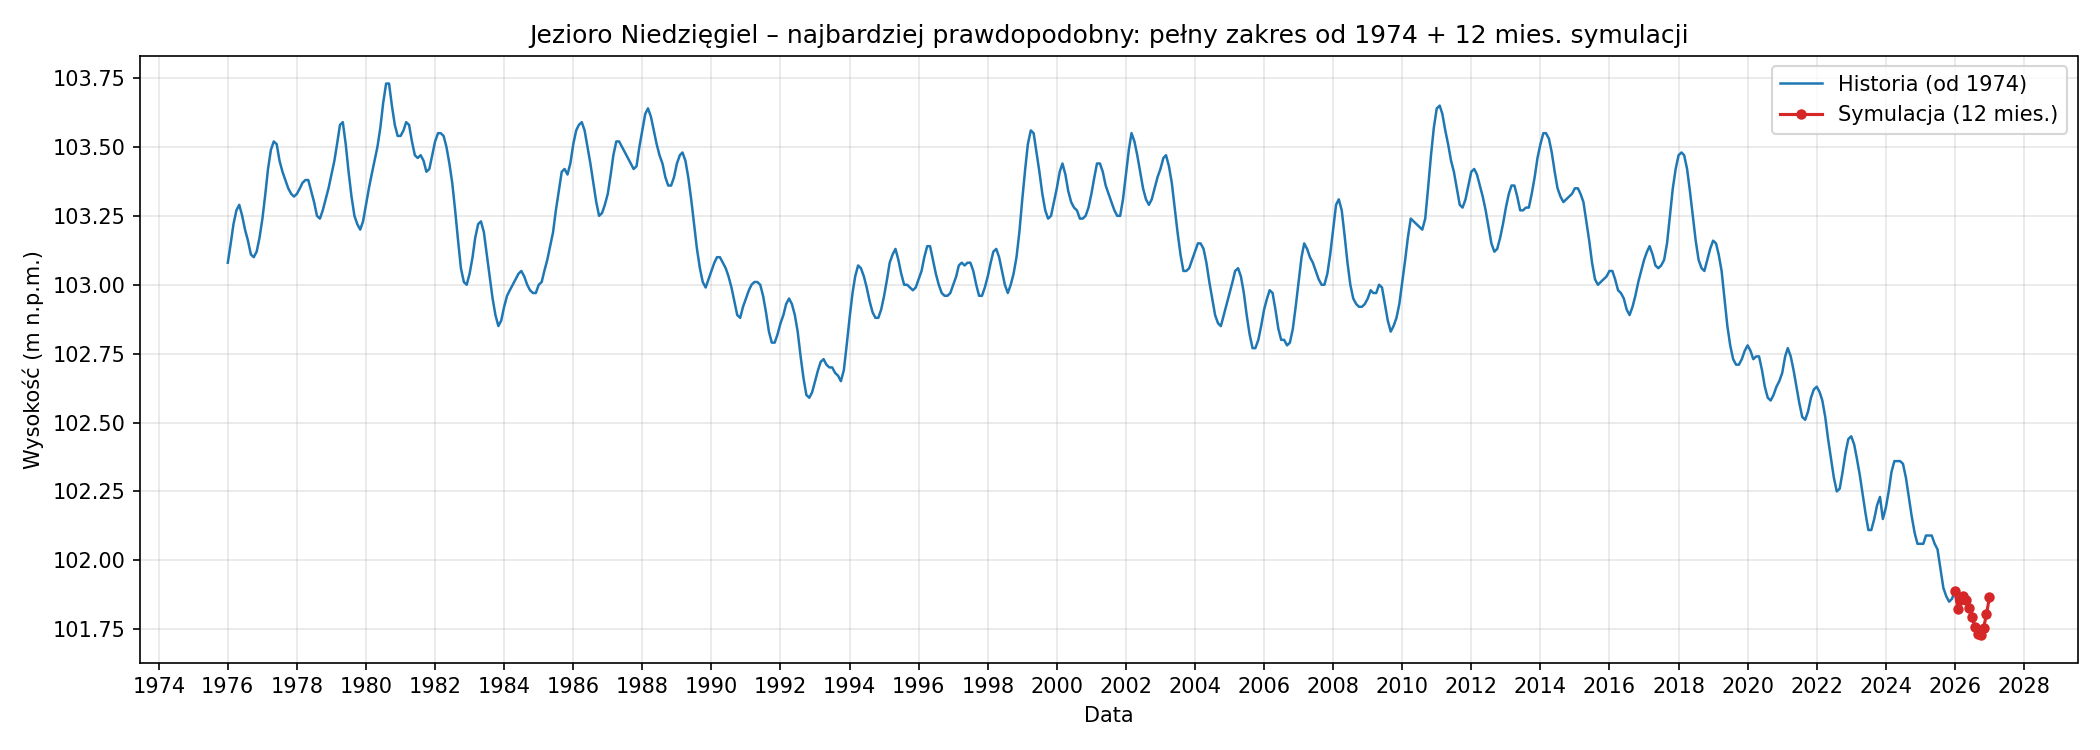
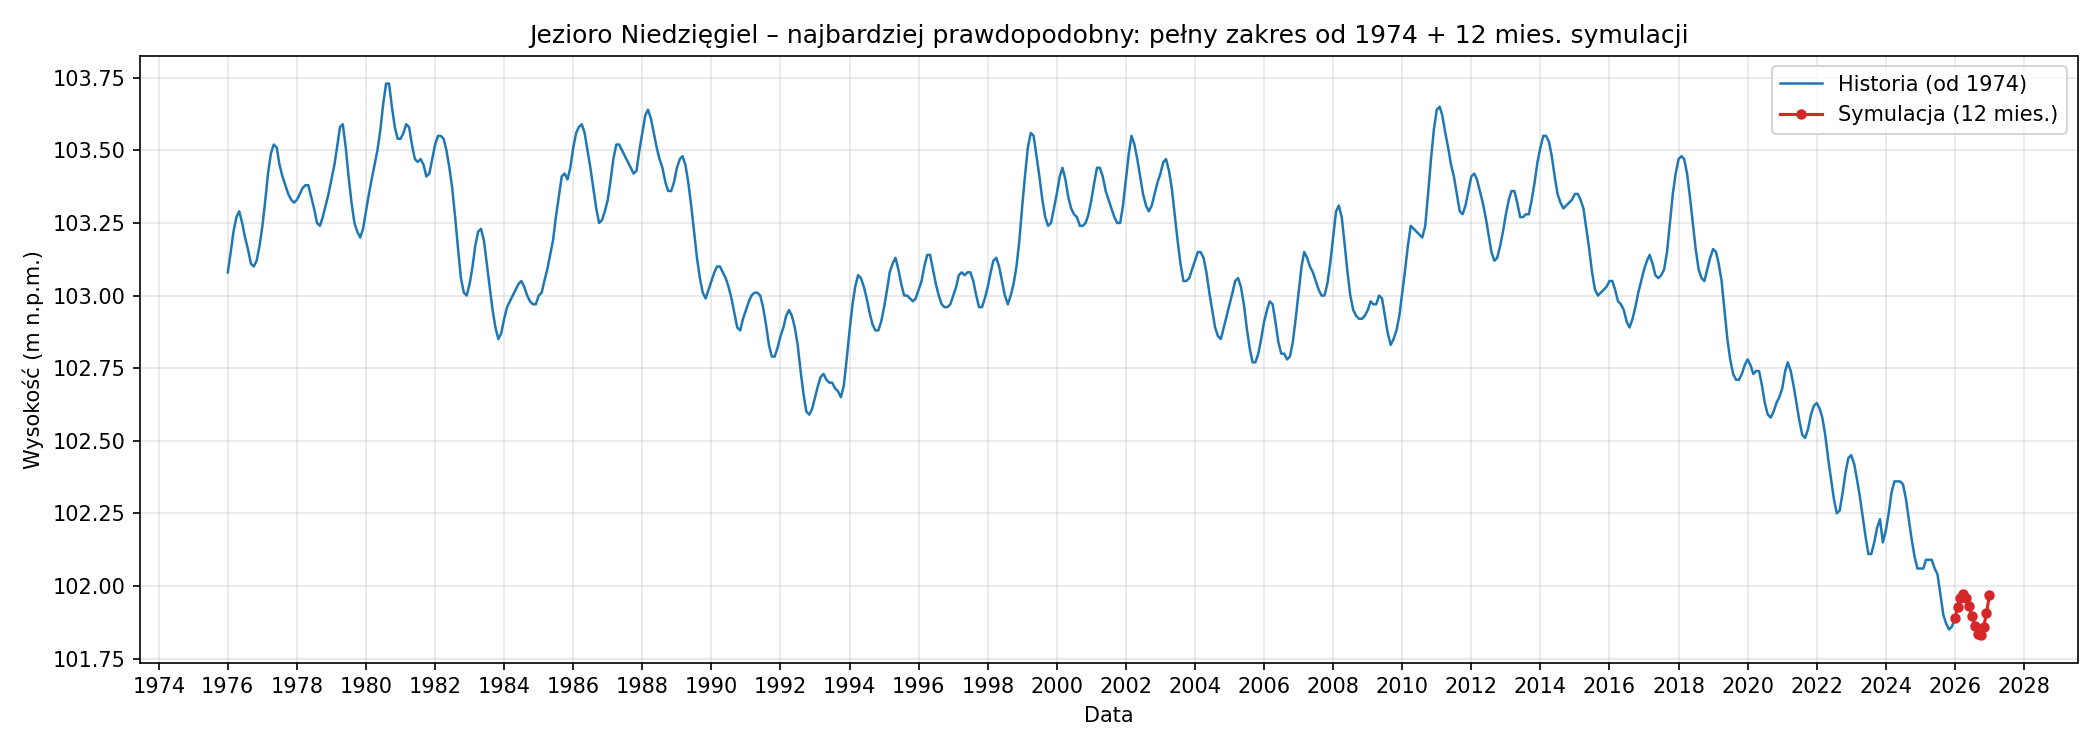
2026.02.15

diff --git a/sources/generate_report_niedziegiel.py b/sources/generate_report_niedziegiel.py
@@ -400,15 +400,18 @@ def _write_report(
                 lines.append(f"| {v['nazwa']} | {v['szansa_pct']} |")
         rok_kon, mies_kon = data_koniec_prognozy
         rok_ref, mies_ref = data_referencyjna
-        poziom_wazony = sum(v["poziom_koniec"] * (v["szansa_pct"] / 100.0) for v in warianty if v.get("szansa_pct") is not None)
         level_ref = level_na_data_referencyjna if level_na_data_referencyjna is not None else warianty[0]["level_start"]
+        if wariant_najbardziej_prawdopodobny:
+            poziom_wazony = wariant_najbardziej_prawdopodobny["poziom_koniec"]
+        else:
+            poziom_wazony = sum(v["poziom_koniec"] * (v["szansa_pct"] / 100.0) for v in warianty if v.get("szansa_pct") is not None)
         roznica = poziom_wazony - level_ref
         roznica_txt = f"przybędzie {_format_zmiana_m_cm(roznica)}" if roznica >= 0 else f"ubędzie {-roznica:.3f} m ({roznica * 100:+.1f} cm)"
         txt_koniec = _format_koniec_miesiaca(rok_kon, mies_kon)
         txt_ref = _format_koniec_miesiaca(rok_ref, mies_ref)
         lines.extend([
             "",
-            f"**Najbardziej prawdopodobny poziom na koniec {txt_koniec}** (średnia ważona według szans realizacji wszystkich wariantów): **{round(poziom_wazony, 3)} m n.p.m.** W stosunku do stanu na koniec {txt_ref} ({level_ref} m n.p.m.): {roznica_txt}.",
+            f"**Najbardziej prawdopodobny poziom na koniec {txt_koniec}** (średnia ważona zmian miesięcznych według szans realizacji wszystkich wariantów): **{round(poziom_wazony, 3)} m n.p.m.** W stosunku do stanu na koniec {txt_ref} ({level_ref} m n.p.m.): {roznica_txt}.",
             "",
             "",
         ])
@@ -433,7 +436,7 @@ def _write_report(
                 f"- **Średnia temperatura roczna (prognoza):** {round(v['srednia_temp_roczna'], 1)} °C",
                 f"- **Suma opadu (prognoza):** {round(v['suma_opadu'], 1)} mm",
                 f"- **Różnica poziomu wody** (koniec symulacji − start): {_format_zmiana_m_cm(v['roznica_poziomu'])}",
-                f"- **Poziom na koniec {_format_koniec_miesiaca(*data_koniec_prognozy)}:** {v['poziom_koniec']} m n.p.m.",
+                f"- **Poziom na koniec {_format_koniec_miesiaca(*data_koniec_prognozy)}:** {round(v['poziom_koniec'], 3)} m n.p.m.",
                 "",
             ])
         lines.append("")
@@ -444,32 +447,32 @@ def _write_report(
 
 def _wariant_najbardziej_prawdopodobny(
     warianty: list[dict],
-    level_na_data_ref: float,
+    level_start_symulacji: float,
+    level_ref_do_porownania: float,
 ) -> dict:
-    level_prev = level_na_data_ref
+    poziom_akt = level_start_symulacji
     wyniki = []
     for i in range(12):
-        poziom_i = sum(v["wyniki"][i]["poziom"] * (v["szansa_pct"] / 100.0) for v in warianty)
+        zmiana_i = sum(v["wyniki"][i]["zmiana_prognoza"] * (v["szansa_pct"] / 100.0) for v in warianty)
         opad_i = sum(v["wyniki"][i]["opad"] * (v["szansa_pct"] / 100.0) for v in warianty)
         temp_i = sum(v["wyniki"][i]["temperatura"] * (v["szansa_pct"] / 100.0) for v in warianty)
-        zmiana_i = poziom_i - level_prev
-        level_prev = poziom_i
+        poziom_akt = poziom_akt + zmiana_i
         wyniki.append({
             "data": warianty[0]["wyniki"][i]["data"],
             "opad": opad_i,
             "temperatura": temp_i,
             "zmiana_prognoza": round(zmiana_i, 4),
-            "poziom": round(poziom_i, 3),
+            "poziom": round(poziom_akt, 3),
         })
-    poziom_koniec = wyniki[-1]["poziom"]
+    poziom_koniec = round(poziom_akt, 3)
     return {
         "nazwa": "najbardziej prawdopodobny",
         "wyniki": wyniki,
         "poziom_koniec": poziom_koniec,
-        "level_start": level_na_data_ref,
+        "level_start": level_ref_do_porownania,
         "srednia_temp_roczna": sum(r["temperatura"] for r in wyniki) / 12,
         "suma_opadu": sum(r["opad"] for r in wyniki),
-        "roznica_poziomu": poziom_koniec - level_na_data_ref,
+        "roznica_poziomu": poziom_koniec - level_ref_do_porownania,
         "szansa_pct": None,
         "czy_srednia_wazona": True,
     }
@@ -498,7 +501,11 @@ def main() -> None:
     if warianty:
         _dodaj_szanse_realizacji(df, warianty)
         level_na_data_ref_plot = level_na_data_ref if level_na_data_ref is not None else warianty[0]["level_start"]
-        wariant_np = _wariant_najbardziej_prawdopodobny(warianty, level_na_data_ref_plot)
+        wariant_np = _wariant_najbardziej_prawdopodobny(
+            warianty,
+            level_start_symulacji=warianty[0]["level_start"],
+            level_ref_do_porownania=level_na_data_ref if level_na_data_ref is not None else warianty[0]["level_start"],
+        )
         for v in [wariant_np] + warianty:
             path_wariant = FIGURES_DIR / f"symulacja_wariant_{_variant_to_filename(v['nazwa'])}.png"
             _plot_wariant_symulacja(

diff --git a/docs/niedziegiel/raport.md b/docs/niedziegiel/raport.md
@@ -26,7 +26,7 @@ Dla każdego wariantu (temperatura: zimny/normalny/ciepły × opad: suchy/normal
 | ciepły, normalny | 15.8 |
 | ciepły, wilgotny | 7.6 |
 
-**Najbardziej prawdopodobny poziom na koniec stycznia 2027** (średnia ważona według szans realizacji wszystkich wariantów): **101.866 m n.p.m.** W stosunku do stanu na koniec stycznia 2026 (101.89 m n.p.m.): ubędzie 0.024 m (-2.4 cm).
+**Najbardziej prawdopodobny poziom na koniec stycznia 2027** (średnia ważona zmian miesięcznych według szans realizacji wszystkich wariantów): **101.968 m n.p.m.** W stosunku do stanu na koniec stycznia 2026 (101.89 m n.p.m.): przybędzie +0.078 m (+7.8 cm).
 
 
 ### najbardziej prawdopodobny
@@ -35,24 +35,24 @@ Dla każdego wariantu (temperatura: zimny/normalny/ciepły × opad: suchy/normal
 
 | Data | Opad (mm) | Temperatura (°C) | Zmiana prognoza (cm) | Poziom (m n.p.m.) |
 |------|-----------|------------------|----------------------|-------------------|
-| 2026-02 | 28.8 | 0.4 | -6.5 cm | 101.825 |
-| 2026-03 | 31.8 | 3.8 | +3.3 cm | 101.857 |
-| 2026-04 | 25.9 | 8.6 | +1.2 cm | 101.869 |
-| 2026-05 | 42.5 | 13.7 | -1.4 cm | 101.856 |
-| 2026-06 | 53.1 | 17.2 | -2.7 cm | 101.828 |
-| 2026-07 | 67.2 | 19.0 | -3.4 cm | 101.794 |
-| 2026-08 | 53.1 | 18.5 | -3.5 cm | 101.759 |
-| 2026-09 | 40.2 | 14.1 | -2.6 cm | 101.733 |
-| 2026-10 | 29.0 | 9.3 | -0.4 cm | 101.729 |
-| 2026-11 | 35.0 | 4.3 | +2.7 cm | 101.756 |
-| 2026-12 | 36.9 | 1.0 | +4.9 cm | 101.804 |
-| 2027-01 | 34.5 | -0.2 | +6.2 cm | 101.866 |
+| 2026-02 | 28.8 | 0.4 | +3.6 cm | 101.926 |
+| 2026-03 | 31.8 | 3.8 | +3.3 cm | 101.959 |
+| 2026-04 | 25.9 | 8.6 | +1.2 cm | 101.971 |
+| 2026-05 | 42.5 | 13.7 | -1.4 cm | 101.958 |
+| 2026-06 | 53.1 | 17.2 | -2.7 cm | 101.93 |
+| 2026-07 | 67.2 | 19.0 | -3.4 cm | 101.896 |
+| 2026-08 | 53.1 | 18.5 | -3.5 cm | 101.861 |
+| 2026-09 | 40.2 | 14.1 | -2.6 cm | 101.835 |
+| 2026-10 | 29.0 | 9.3 | -0.5 cm | 101.831 |
+| 2026-11 | 35.0 | 4.3 | +2.7 cm | 101.858 |
+| 2026-12 | 36.9 | 1.0 | +4.9 cm | 101.906 |
+| 2027-01 | 34.5 | -0.2 | +6.2 cm | 101.968 |
 
 - **Średnia ważona wszystkich wariantów (bez własnej szansy realizacji).**
 - **Średnia temperatura roczna (prognoza):** 9.1 °C
 - **Suma opadu (prognoza):** 478.0 mm
-- **Różnica poziomu wody** (koniec symulacji − start): -0.024 m (-2.4 cm)
-- **Poziom na koniec stycznia 2027:** 101.866 m n.p.m.
+- **Różnica poziomu wody** (koniec symulacji − start): +0.078 m (+7.8 cm)
+- **Poziom na koniec stycznia 2027:** 101.968 m n.p.m.
 
 ### zimny, suchy
 
@@ -281,4 +281,4 @@ Dla każdego wariantu (temperatura: zimny/normalny/ciepły × opad: suchy/normal
 
 
 
-*Wygenerowano: 2026-02-15 11:27*
+*Wygenerowano: 2026-02-15 11:46*

diff --git a/docs/niedziegiel/podsumowanie_ewaluacji.md b/docs/niedziegiel/podsumowanie_ewaluacji.md
@@ -610,4 +610,4 @@ Dla każdego miesiąca model otrzymuje opad i temperaturę (oraz cechy opóźnio
 | 2025-12 | 13.0 | 2.4 | +1.0 | +1.3 | -0.3 | 101.87 | 102.866 | -99.6 |
 | 2026-01 | 17.3 | -2.9 | +3.0 | +2.9 | +0.1 | 101.92 | 102.894 | -97.4 |
 
-*Wygenerowano: 2026-02-15 11:29*
+*Wygenerowano: 2026-02-15 11:45*
